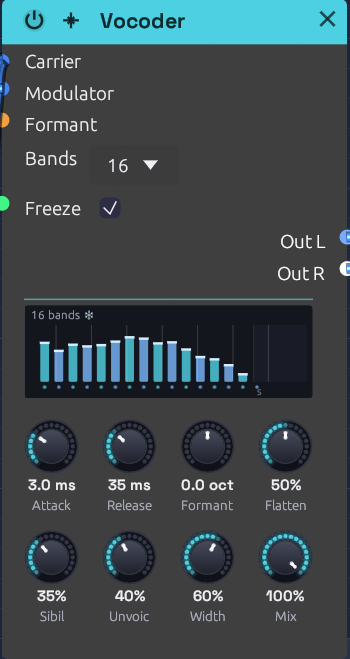
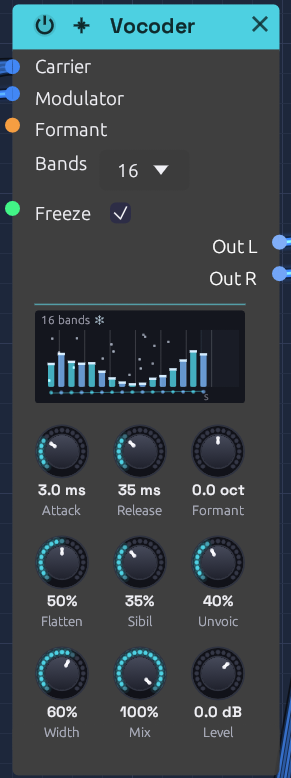
[Phase 14] Vocoder: an output Level, so a part's loudness is set where it's made
- Level knob (-24..+12 dB, default 0 dB) scales Out L and Out R, dry,
  bank and sibilance alike, and nothing else; patches without it load at unity
- The face goes to three rows of three (the voice heard, the carrier and
  what passes besides, the output) and the band display narrows to match
- Manual: Level in the table and in Shaping the sound; turning the carrier
  down leaves Sibilance and Unvoiced where they were, Level doesn't
- Held Vowels' note moved below the taller Vocoder; module image, two
  recipe pictures and the vowel close-ups re-shot (close-up crop narrowed)

Closes #184

diff --git a/src/modules/vocoder.rs b/src/modules/vocoder.rs
@@ -17,6 +17,8 @@
 //!   long as the chord does.
 //! - **Flatten** evens out the carrier's own spectrum before the voice's is
 //!   put on it, so a dull carrier speaks as clearly as a bright one.
+//! - **Level** sets how loud it all comes out. Flattened, the output follows
+//!   the carrier's level less closely, so this is where its loudness is set.
 //!
 //! Each band is two cascaded second-order sections (TPT state-variable
 //! band-passes), so neighbours cross at -3 dB and the bank sums flat. The
@@ -27,6 +29,7 @@ use std::f32::consts::{FRAC_PI_2, FRAC_PI_4, PI, SQRT_2};
 use crate::dsp::{
     context::ProcessContext,
     denormal::flush,
+    dynamics::db_to_gain,
     module_trait::{DspModule, ModuleCategory, ModuleInfo},
     parameter::ParameterDefinition,
     port::PortDefinition,
@@ -304,6 +307,7 @@ fn tilt(levels: impl Iterator<Item = f32>, bands: usize) -> f32 {
 /// - **Sibilance**, **Unvoiced**, **Width** and **Mix**.
 /// - **Flatten** (0–100%): evens out the carrier's bands before the voice's
 ///   levels are put on them.
+/// - **Level** (−24..+12 dB): the output's gain, dry and wet alike.
 pub struct Vocoder {
     sample_rate: f32,
     bands: [Band; MAX_BANDS],
@@ -338,6 +342,8 @@ pub struct Vocoder {
     width: SmoothedValue,
     mix: SmoothedValue,
     flatten: SmoothedValue,
+    /// Level, as a gain.
+    level: SmoothedValue,
     ports: Vec<PortDefinition>,
     parameters: Vec<ParameterDefinition>,
 }
@@ -360,6 +366,7 @@ impl Vocoder {
     pub const PARAM_WIDTH: usize = 7;
     pub const PARAM_MIX: usize = 8;
     pub const PARAM_FLATTEN: usize = 9;
+    pub const PARAM_LEVEL: usize = 10;
 
     /// Readout: the voice's level in each band, in amplitude, from 0 up to
     /// [`MAX_BANDS`].
@@ -406,6 +413,7 @@ impl Vocoder {
             width: SmoothedValue::with_default_smoothing(0.5, sample_rate),
             mix: SmoothedValue::with_default_smoothing(1.0, sample_rate),
             flatten: SmoothedValue::with_default_smoothing(0.0, sample_rate),
+            level: SmoothedValue::with_default_smoothing(1.0, sample_rate),
             ports: vec![
                 PortDefinition::input_with_default("carrier", "Carrier", SignalType::Audio, 0.0)
                     .describe("The sound that's played, a synth chord; a polyphonic cable is summed"),
@@ -440,6 +448,8 @@ impl Vocoder {
                     .describe("Blend from the carrier alone (0) to the vocoded sound (1)"),
                 ParameterDefinition::normalized("flatten", "Flatten", 0.0)
                     .describe("Evens out the carrier's own spectrum first, so a dull pad speaks as clearly as a bright saw"),
+                ParameterDefinition::new("level", "Level", -24.0, 12.0, 0.0, ParameterDisplay::linear("dB"))
+                    .describe("How loud it comes out: set the part's loudness here, since Flatten makes the carrier's matter less"),
             ],
         };
         vocoder.tune_all();
@@ -568,7 +578,7 @@ impl DspModule for Vocoder {
 
     fn prepare(&mut self, sample_rate: f32, _max_block_size: usize) {
         self.sample_rate = sample_rate;
-        for smoothed in [&mut self.formant, &mut self.sibilance, &mut self.unvoiced_amount, &mut self.width, &mut self.mix, &mut self.flatten] {
+        for smoothed in [&mut self.formant, &mut self.sibilance, &mut self.unvoiced_amount, &mut self.width, &mut self.mix, &mut self.flatten, &mut self.level] {
             smoothed.set_sample_rate(sample_rate);
         }
         self.tune_all();
@@ -593,6 +603,7 @@ impl DspModule for Vocoder {
         self.width.set_target(params[Self::PARAM_WIDTH]);
         self.mix.set_target(params[Self::PARAM_MIX]);
         self.flatten.set_target(params[Self::PARAM_FLATTEN]);
+        self.level.set_target(db_to_gain(params[Self::PARAM_LEVEL]));
 
         let carrier = &inputs[Self::PORT_CARRIER].samples;
         let modulator = &inputs[Self::PORT_MODULATOR].samples;
@@ -680,8 +691,9 @@ impl DspModule for Vocoder {
             // Rectified, a band reads 2/π of its amplitude
             let wet_gain = MAKEUP * FRAC_PI_2 * (self.active as f32).sqrt() * self.switch_gain;
             let mix = self.mix.next();
-            out_l[i] = dry * (1.0 - mix) + mix * (sides[0] * wet_gain + sibilance);
-            out_r[i] = dry * (1.0 - mix) + mix * (sides[1] * wet_gain + sibilance);
+            let level = self.level.next();
+            out_l[i] = level * (dry * (1.0 - mix) + mix * (sides[0] * wet_gain + sibilance));
+            out_r[i] = level * (dry * (1.0 - mix) + mix * (sides[1] * wet_gain + sibilance));
         }
     }
 
@@ -695,7 +707,7 @@ impl DspModule for Vocoder {
         self.frozen = false;
         self.listening = 1.0;
         self.emphasis = 0.0;
-        for smoothed in [&mut self.formant, &mut self.sibilance, &mut self.unvoiced_amount, &mut self.width, &mut self.mix, &mut self.flatten] {
+        for smoothed in [&mut self.formant, &mut self.sibilance, &mut self.unvoiced_amount, &mut self.width, &mut self.mix, &mut self.flatten, &mut self.level] {
             smoothed.reset(smoothed.target());
         }
     }
@@ -731,12 +743,12 @@ mod tests {
     const BLOCK: usize = 256;
 
     /// Knobs: Formant, Bands, Freeze, Attack, Release, Sibilance, Unvoiced,
-    /// Width, Mix, Flatten.
-    type Knobs = [f32; 10];
+    /// Width, Mix, Flatten, Level.
+    type Knobs = [f32; 11];
 
-    /// The knobs, with Freeze off and Flatten at 0.
+    /// The knobs, with Freeze off, Flatten at 0 and Level at 0 dB.
     fn knobs(formant: f32, bands: f32, sibilance: f32, unvoiced: f32, width: f32, mix: f32) -> Knobs {
-        [formant, bands, 0.0, 4.0, 40.0, sibilance, unvoiced, width, mix, 0.0]
+        [formant, bands, 0.0, 4.0, 40.0, sibilance, unvoiced, width, mix, 0.0, 0.0]
     }
 
     /// Knobs with Freeze set and Flatten at `flatten`, and everything else
@@ -895,7 +907,7 @@ mod tests {
         assert_eq!(ports[Vocoder::PORT_FREEZE].name, "Freeze");
         assert_eq!(ports[Vocoder::PORT_FREEZE].signal_type, SignalType::Gate);
         let names: Vec<&str> = vocoder.parameters().iter().map(|p| p.name).collect();
-        assert_eq!(names, ["Formant", "Bands", "Freeze", "Attack", "Release", "Sibilance", "Unvoiced", "Width", "Mix", "Flatten"]);
+        assert_eq!(names, ["Formant", "Bands", "Freeze", "Attack", "Release", "Sibilance", "Unvoiced", "Width", "Mix", "Flatten", "Level"]);
     }
 
     #[test]
@@ -959,6 +971,30 @@ mod tests {
         let tail = 12000..;
         let diff = knob_only.0[tail.clone()].iter().zip(&with_cv.0[tail.clone()]).map(|(a, b)| (a - b).abs()).fold(0.0, f32::max);
         assert!(diff < 0.05 * rms(&knob_only.0[tail]), "differ by {diff}");
+    }
+
+    #[test]
+    fn level_scales_both_outputs_and_nothing_else() {
+        // Half wet, so the carrier and the vocoded voice are both in it, with
+        // Flatten, Sibilance and Unvoiced all at work
+        let at = |db: f32| {
+            let mut k = knobs(0.3, 1.0, 0.5, 0.5, 0.8, 0.5);
+            k[Vocoder::PARAM_FLATTEN] = 0.5;
+            k[Vocoder::PARAM_LEVEL] = db;
+            let mut vocoder = Vocoder::new();
+            let out = play_on(&mut vocoder, 0.5, saw(125.0), vowel(&[500.0, 2000.0, 5000.0]), 0.0, |_| k);
+            (out, bands_of(&vocoder))
+        };
+        let ((l0, r0), bands0) = at(0.0);
+        assert!(rms(&l0) > 0.01 && rms(&r0) > 0.01);
+        for db in [-24.0, -8.0, 12.0] {
+            let ((l, r), bands) = at(db);
+            let gain = db_to_gain(db);
+            for (ours, unity) in l.iter().zip(&l0).chain(r.iter().zip(&r0)) {
+                assert!((ours - gain * unity).abs() <= 1e-5 * gain.max(1.0), "{db} dB: {ours} against {unity}");
+            }
+            assert_eq!(bands, bands0, "{db} dB moved the bands");
+        }
     }
 
     #[test]
@@ -1332,6 +1368,6 @@ mod tests {
         let mut registry = crate::dsp::ModuleRegistry::new();
         registry.register::<Vocoder>();
         let module = registry.create("fx.vocoder").unwrap();
-        assert_eq!(module.parameters().len(), 10);
+        assert_eq!(module.parameters().len(), 11);
     }
 }

diff --git a/src/graph/module_ui.rs b/src/graph/module_ui.rs
@@ -479,8 +479,8 @@ static MODULE_UI: &[ModuleUi] = &[
     },
     ModuleUi {
         module_id: "fx.vocoder",
-        // How the bank plays (the voice heard, the carrier evened), then what
-        // passes besides, then the output
+        // Three rows: how the voice is heard, the carrier and what passes
+        // besides it, then the output
         knobs: &[
             knob("Attack"),
             knob("Release"),
@@ -490,9 +490,10 @@ static MODULE_UI: &[ModuleUi] = &[
             knob_as("Unvoiced", "Unvoic"),
             knob("Width"),
             knob("Mix"),
+            knob("Level"),
         ],
         display: NodeDisplay::VocoderBands,
-        knobs_per_row: 4,
+        knobs_per_row: 3,
         ..ModuleUi::DEFAULT
     },
     ModuleUi {

diff --git a/src/graph/vocoder_display.rs b/src/graph/vocoder_display.rs
@@ -64,9 +64,9 @@ pub fn vocoder_display(ui: &mut egui::Ui, node_id: NodeId, graph: &SynthGraph, u
     // The carrier's slope, in dB an octave: its own, and as the bank plays it
     let (own_tilt, played_tilt) = readout.map_or((0.0, 0.0), |r| (r.values[Vocoder::READOUT_TILT], r.values[Vocoder::READOUT_EVENED]));
 
-    // As wide as the four knobs below
+    // As wide as the three knobs below
     let gap = ui.spacing().item_spacing.x;
-    let width = 4.0 * 44.0 * z + 3.0 * gap - 8.0 * z;
+    let width = 3.0 * 44.0 * z + 2.0 * gap - 8.0 * z;
     let height = 62.0 * z;
 
     ui.add_space(8.0 * z);

diff --git a/tools/showcase/recipe_images.py b/tools/showcase/recipe_images.py
@@ -97,7 +97,7 @@ Closeup = namedtuple("Closeup", "patch module at crop zoom columns")
 CLOSEUPS = {
     # The Vocoder's bands frozen on each of the four sung vowels: ohh, ooh,
     # ee and ahh, each held from one downbeat to the next
-    "held-vowels-faces": Closeup("held-vowels", "fx.vocoder", (5.6, 9.3, 13.0, 16.6), (18, 202, 203.5, 261.5), 2.0, 2),
+    "held-vowels-faces": Closeup("held-vowels", "fx.vocoder", (5.6, 9.3, 13.0, 16.6), (18, 202, 151, 261.5), 2.0, 2),
 }
 GAP = 28
 BACKGROUND = "#1e202c"

diff --git a/docs/src/modules/effects/vocoder.md b/docs/src/modules/effects/vocoder.md
@@ -59,6 +59,7 @@ The sibilance and the dry carrier (below 100% **Mix**) sit in the middle of both
 | **Unvoic** (Unvoiced) | 0 – 100% | 25% | How far noise replaces the carrier while the voice hisses |
 | **Width** | 0 – 100% | 50% | How far apart the odd and even bands sit |
 | **Mix** | 0 – 100% | 100% | From the carrier alone (0%) to the vocoded sound (100%) |
+| **Level** | −24 – +12 dB | 0 dB | The output's gain, after everything else |
 
 The **Formant** input adds to the knob, and the sum stops at an octave either way. While it's patched, the knob stays live and sets the centre the CV works around.
 
@@ -89,6 +90,8 @@ Bars stand on a frequency axis, one per band, each as tall as the voice is in th
 
 **Mix.** At 0% you hear only the carrier, centred. In between, a little of the raw chord fills the gaps between the words.
 
+**Level.** Turns both outputs up or down, the dry carrier, the bank and the sibilance alike, and changes nothing else: the bands, the display and Flatten's weighting hear the same thing at any Level. Set the part's loudness here and leave the faders after it free for the mix.
+
 **Freeze.** Sing an "ahh", switch on Freeze, and every band holds exactly where it was. Now play chords: each one says the same vowel for as long as you hold it, and you can stop singing. The voice's own highs (the Sibilance path) are muted while frozen, so whatever you say next doesn't leak through, and the Unvoiced noise holds where it was too. With **Flatten** up, the voice's weighting of the bands holds as well, so a held vowel keeps one level through the whole chord. Switch Freeze off and the bands carry on from where they were held, at the Attack and Release rates, so there's no jump. Patch a gate into the **Freeze** input and it takes over from the switch: high holds, low lets go.
 
 **Flatten.** The bank can only put the voice where the carrier has something to give. A dull carrier, like a pad through a low-pass filter or a triangle or sine chord, is loud low down and nearly silent at 2 kHz, where much of a vowel lives. Its words come out muffled. Flatten measures the carrier in each band and lifts the quiet bands and lowers the loud ones until they're even, before the voice's levels are applied. At 0% the carrier keeps its own tilt, exactly as before. At 100% every band of the carrier is the same level, the "spectral whitening" of modern vocoders. In between, it goes that share of the way, in dB. Flattened, a triangle chord speaks its vowels as plainly as a saw does unflattened.
@@ -107,7 +110,9 @@ The vocoder can only carry what the carrier has to give. A **bright, sustained**
 
 **Keep the carrier low.** A carrier's harmonics are where the vowels get drawn, and a high note spaces them too far apart to trace the formants. Measured with speech recognition on a spoken line, a saw at A2 or A3 kept about 60% of the words, and the same saw at A4 about 20%. A chord voiced low and wide, held while the words move, works best of all. [Clair de Satellite](../../recipes/clair-de-satellite.md) sings on the string section's chord for this reason, not on its melody.
 
-The output follows both inputs: a loud chord and a loud voice make a loud vocoder. A five-note chord of detuned saws arrives several times louder than one voice, so turn the vocoder down after it, on a [Mixer](../utilities/mixer.md) strip.
+The output follows both inputs: a loud chord and a loud voice make a loud vocoder. A five-note chord of detuned saws arrives several times louder than one voice, so turn **Level** down to sit it with the rest.
+
+Turning the carrier down is a poorer way to the same place. The bank does come down with it, dB for dB, with or without **Flatten**. But the Sibilance path and the Unvoiced noise take their level from the voice, not the carrier, so they stay where they were. The vocoder comes down by less than the carrier did, and the mix tips toward hiss. **Level** turns everything down together.
 
 ## Bypass
 
